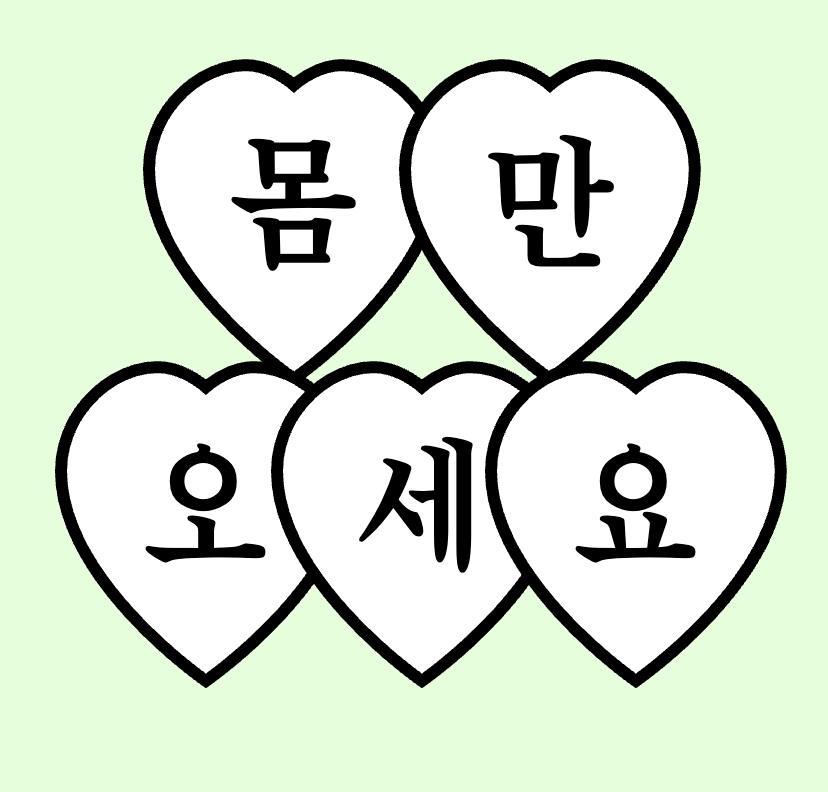
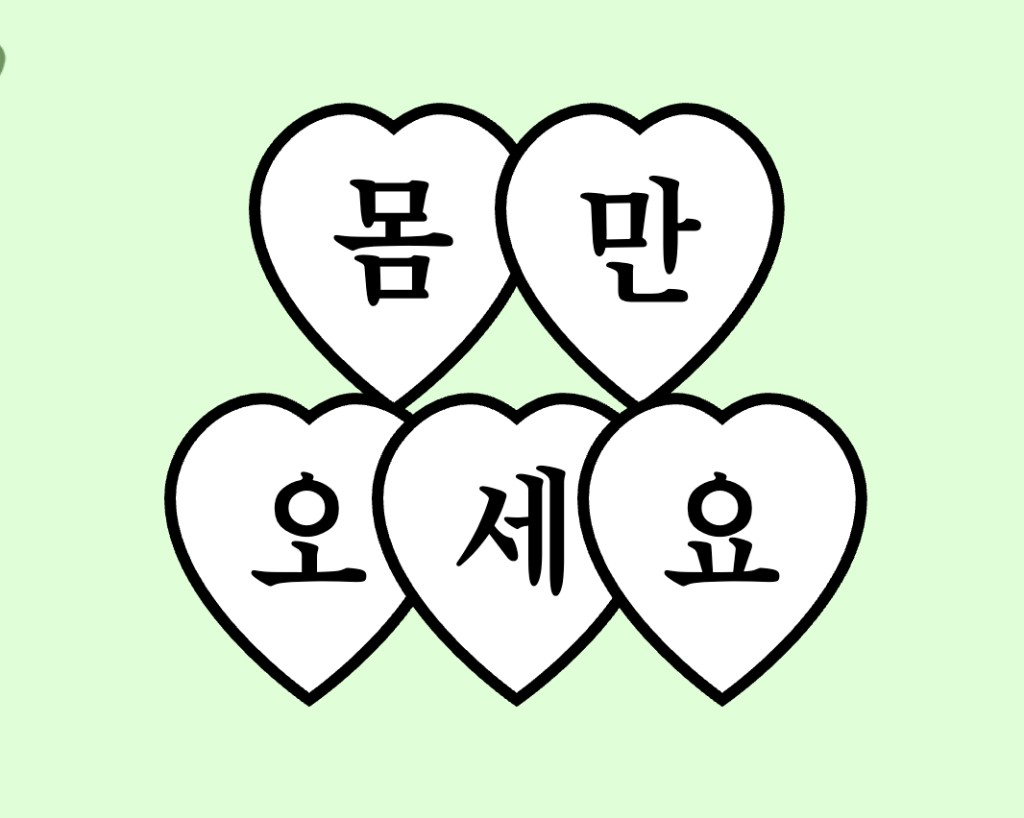
Update OG metadata and replace preview image.
Apply requested title/description values and publish the newly provided artwork as the social share image.

Made-with: Cursor

Changed region(s): [[0.0604, 0.0606, 0.9662, 0.8788], [0.0, 0.0606, 0.0302, 0.0909]]

diff --git a/index.html b/index.html
@@ -3,18 +3,20 @@
 <head>
 <meta charset="UTF-8" />
 <meta name="viewport" content="width=device-width, initial-scale=1.0" />
-<title>초대합니다 · 몸 만 오 세 요</title>
+<title>몸만 오세요, Sun의 집</title>
+<meta name="description" content="서쪽나라사람들, 은밀한파티, 여은파, 비밀파티" />
 <meta property="og:type" content="website" />
-<meta property="og:title" content="초대합니다 · 몸 만 오 세 요" />
-<meta property="og:description" content="비밀 접선 장소로 당신을 초대합니다." />
-<meta property="og:image" content="/og-image.png" />
+<meta property="og:title" content="몸만 오세요, Sun의 집" />
+<meta property="og:description" content="서쪽나라사람들, 은밀한파티, 여은파, 비밀파티" />
+<meta property="og:url" content="https://sunnymoon1221.github.io/SideProject/" />
+<meta property="og:image" content="https://raw.githubusercontent.com/sunnymoon1221/SideProject/main/og-image.png" />
 <meta property="og:image:type" content="image/png" />
 <meta property="og:image:width" content="828" />
 <meta property="og:image:height" content="792" />
 <meta name="twitter:card" content="summary_large_image" />
-<meta name="twitter:title" content="초대합니다 · 몸 만 오 세 요" />
-<meta name="twitter:description" content="비밀 접선 장소로 당신을 초대합니다." />
-<meta name="twitter:image" content="/og-image.png" />
+<meta name="twitter:title" content="몸만 오세요, Sun의 집" />
+<meta name="twitter:description" content="서쪽나라사람들, 은밀한파티, 여은파, 비밀파티" />
+<meta name="twitter:image" content="https://raw.githubusercontent.com/sunnymoon1221/SideProject/main/og-image.png" />
 <style>
   @font-face {
     font-family: 'JoseonBoldMyongjo';
